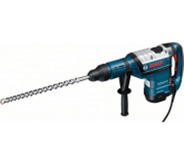
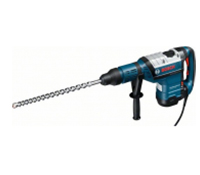
Правки контентных картинок каталога, приведение к одному размеру

Changed region(s): [[0.0, 0.2439, 1.0, 0.7622]]

diff --git a/catalog.html b/catalog.html
@@ -143,7 +143,7 @@
               <a href="#" class="btn btn--buy">Купить</a>
               <a href="#" class="btn products__control-bookmark">В закладки</a>
             </div>
-            <img class="products__item-picture" src="/img/bosh-bfg-3.jpg" width="128" height="112" alt="Перфоратор BOSH BFG 3000">
+            <img class="products__item-picture" src="/img/bosh-bfg-3.jpg" width="200" height="175" alt="Перфоратор BOSH BFG 3000">
             <h3 class="products__item-title">Перфоратор BOSH BFG 3000</h3>
             <span class="products__item-price_strike">22500 Р.</span>
             <span class="products__item-price">15500 Р.</span>
@@ -153,7 +153,7 @@
               <a href="#" class="btn btn--buy">Купить</a>
               <a href="#" class="btn products__control-bookmark">В закладки</a>
             </div>
-            <img class="products__item-picture" src="/img/bosh-bfg-4.jpg" width="144" height="128" alt="Перфоратор BOSH BFG 6000">
+            <img class="products__item-picture" src="/img/bosh-bfg-4.jpg" width="200" height="175" alt="Перфоратор BOSH BFG 6000">
             <h3 class="products__item-title">Перфоратор BOSH BFG 6000</h3>
             <span class="products__item-price_strike">30500 Р.</span>
             <span class="products__item-price">25500 Р.</span>
@@ -163,7 +163,7 @@
               <a href="#" class="btn btn--buy">Купить</a>
               <a href="#" class="btn products__control-bookmark">В закладки</a>
             </div>
-            <img class="products__item-picture" src="/img/bosh-bfg-3.jpg" width="128" height="112" alt="Перфоратор BOSH BFG 2000">
+            <img class="products__item-picture" src="/img/bosh-bfg-3.jpg" width="200" height="175" alt="Перфоратор BOSH BFG 2000">
             <h3 class="products__item-title">Перфоратор BOSH BFG 2000</h3>
             <span class="products__item-price">12500 Р.</span>
           </article>
@@ -172,7 +172,7 @@
               <a href="#" class="btn btn--buy">Купить</a>
               <a href="#" class="btn products__control-bookmark">В закладки</a>
             </div>
-            <img class="products__item-picture" src="/img/bosh-bfg-3.jpg" width="128" height="112" alt="Перфоратор BOSH BFG 3000">
+            <img class="products__item-picture" src="/img/bosh-bfg-3.jpg" width="200" height="175" alt="Перфоратор BOSH BFG 3000">
             <h3 class="products__item-title">Перфоратор BOSH BFG 3000</h3>
             <span class="products__item-price_strike">22500 Р.</span>
             <span class="products__item-price">15500 Р.</span>
@@ -182,7 +182,7 @@
               <a href="#" class="btn btn--buy">Купить</a>
               <a href="#" class="btn products__control-bookmark">В закладки</a>
             </div>
-            <img class="products__item-picture" src="/img/bosh-bfg-3.jpg" width="128" height="112" alt="Перфоратор BOSH BFG 6000">
+            <img class="products__item-picture" src="/img/bosh-bfg-3.jpg" width="200" height="175" alt="Перфоратор BOSH BFG 6000">
             <h3 class="products__item-title">Перфоратор BOSH BFG 6000</h3>
             <span class="products__item-price_strike">30500 Р.</span>
             <span class="products__item-price">25500 Р.</span>
@@ -192,7 +192,7 @@
               <a href="#" class="btn btn--buy">Купить</a>
               <a href="#" class="btn products__control-bookmark">В закладки</a>
             </div>
-            <img class="products__item-picture" src="/img/bosh-bfg-3.jpg" width="128" height="112" alt="Перфоратор BOSH BFG 2000">
+            <img class="products__item-picture" src="/img/bosh-bfg-3.jpg" width="200" height="175" alt="Перфоратор BOSH BFG 2000">
             <h3 class="products__item-title">Перфоратор BOSH BFG 2000</h3>
             <span class="products__item-price">12500 Р.</span>
           </article>
@@ -201,7 +201,7 @@
               <a href="#" class="btn btn--buy">Купить</a>
               <a href="#" class="btn products__control-bookmark">В закладки</a>
             </div>
-            <img class="products__item-picture" src="/img/bosh-bfg-3.jpg" width="128" height="112" alt="Перфоратор BOSH BFG 3000">
+            <img class="products__item-picture" src="/img/bosh-bfg-3.jpg" width="200" height="175" alt="Перфоратор BOSH BFG 3000">
             <h3 class="products__item-title">Перфоратор BOSH BFG 3000</h3>
             <span class="products__item-price">15500 Р.</span>
           </article>
@@ -210,7 +210,7 @@
               <a href="#" class="btn btn--buy">Купить</a>
               <a href="#" class="btn products__control-bookmark">В закладки</a>
             </div>
-            <img class="products__item-picture" src="/img/bosh-bfg-4.jpg" width="144" height="128" alt="Перфоратор BOSH BFG 6000">
+            <img class="products__item-picture" src="/img/bosh-bfg-4.jpg" width="200" height="175" alt="Перфоратор BOSH BFG 6000">
             <h3 class="products__item-title">Перфоратор BOSH BFG 6000</h3>
             <span class="products__item-price_strike">30500 Р.</span>
             <span class="products__item-price">25500 Р.</span>
@@ -220,7 +220,7 @@
               <a href="#" class="btn btn--buy">Купить</a>
               <a href="#" class="btn products__control-bookmark">В закладки</a>
             </div>
-            <img class="products__item-picture" src="/img/bosh-bfg-3.jpg" width="128" height="112" alt="Перфоратор BOSH BFG 2000">
+            <img class="products__item-picture" src="/img/bosh-bfg-3.jpg" width="200" height="175" alt="Перфоратор BOSH BFG 2000">
             <h3 class="products__item-title">Перфоратор BOSH BFG 2000</h3>
             <span class="products__item-price">12500 Р.</span>
           </article>

diff --git a/index.html b/index.html
@@ -113,7 +113,7 @@
               <a href="#" class="btn btn--buy">Купить</a>
               <a href="#" class="btn products__control-bookmark">В закладки</a>
             </div>
-            <img class="products__item-picture" src="/img/bosh-bfg-2.jpg" width="184" height="162" alt="Перфоратор BOSH BFG 9000">
+            <img class="products__item-picture" src="/img/bosh-bfg-2.jpg" width="200" height="175" alt="Перфоратор BOSH BFG 9000">
             <h3 class="products__item-title">Перфоратор BOSH BFG 9000</h3>
             <span class="products__item-price_strike">32500 Р.</span>
             <span class="products__item-price">25500 Р.</span>
@@ -123,7 +123,7 @@
               <a href="#" class="btn btn--buy">Купить</a>
               <a href="#" class="btn products__control-bookmark">В закладки</a>
             </div>
-            <img class="products__item-picture" src="/img/bosh-bfg-3.jpg" width="128" height="112" alt="Перфоратор BOSH BFG 3000">
+            <img class="products__item-picture" src="/img/bosh-bfg-3.jpg" width="200" height="175" alt="Перфоратор BOSH BFG 3000">
             <h3 class="products__item-title">Перфоратор BOSH BFG 3000</h3>
             <span class="products__item-price_strike">22500 Р.</span>
             <span class="products__item-price">15500 Р.</span>
@@ -133,7 +133,7 @@
               <a href="#" class="btn btn--buy">Купить</a>
               <a href="#" class="btn products__control-bookmark">В закладки</a>
             </div>
-            <img class="products__item-picture" src="/img/bosh-bfg-4.jpg" width="144" height="128" alt="Перфоратор BOSH BFG 6000">
+            <img class="products__item-picture" src="/img/bosh-bfg-4.jpg" width="200" height="175" alt="Перфоратор BOSH BFG 6000">
             <h3 class="products__item-title">Перфоратор BOSH BFG 6000</h3>
             <span class="products__item-price_strike">30500 Р.</span>
             <span class="products__item-price">25500 Р.</span>
@@ -143,7 +143,7 @@
               <a href="#" class="btn btn--buy">Купить</a>
               <a href="#" class="btn products__control-bookmark">В закладки</a>
             </div>
-            <img class="products__item-picture" src="/img/bosh-bfg-3.jpg" width="128" height="112" alt="Перфоратор BOSH BFG 2000">
+            <img class="products__item-picture" src="/img/bosh-bfg-3.jpg" width="200" height="175" alt="Перфоратор BOSH BFG 2000">
             <h3 class="products__item-title">Перфоратор BOSH BFG 2000</h3>
             <span class="products__item-price">12500 Р.</span>
           </article>
